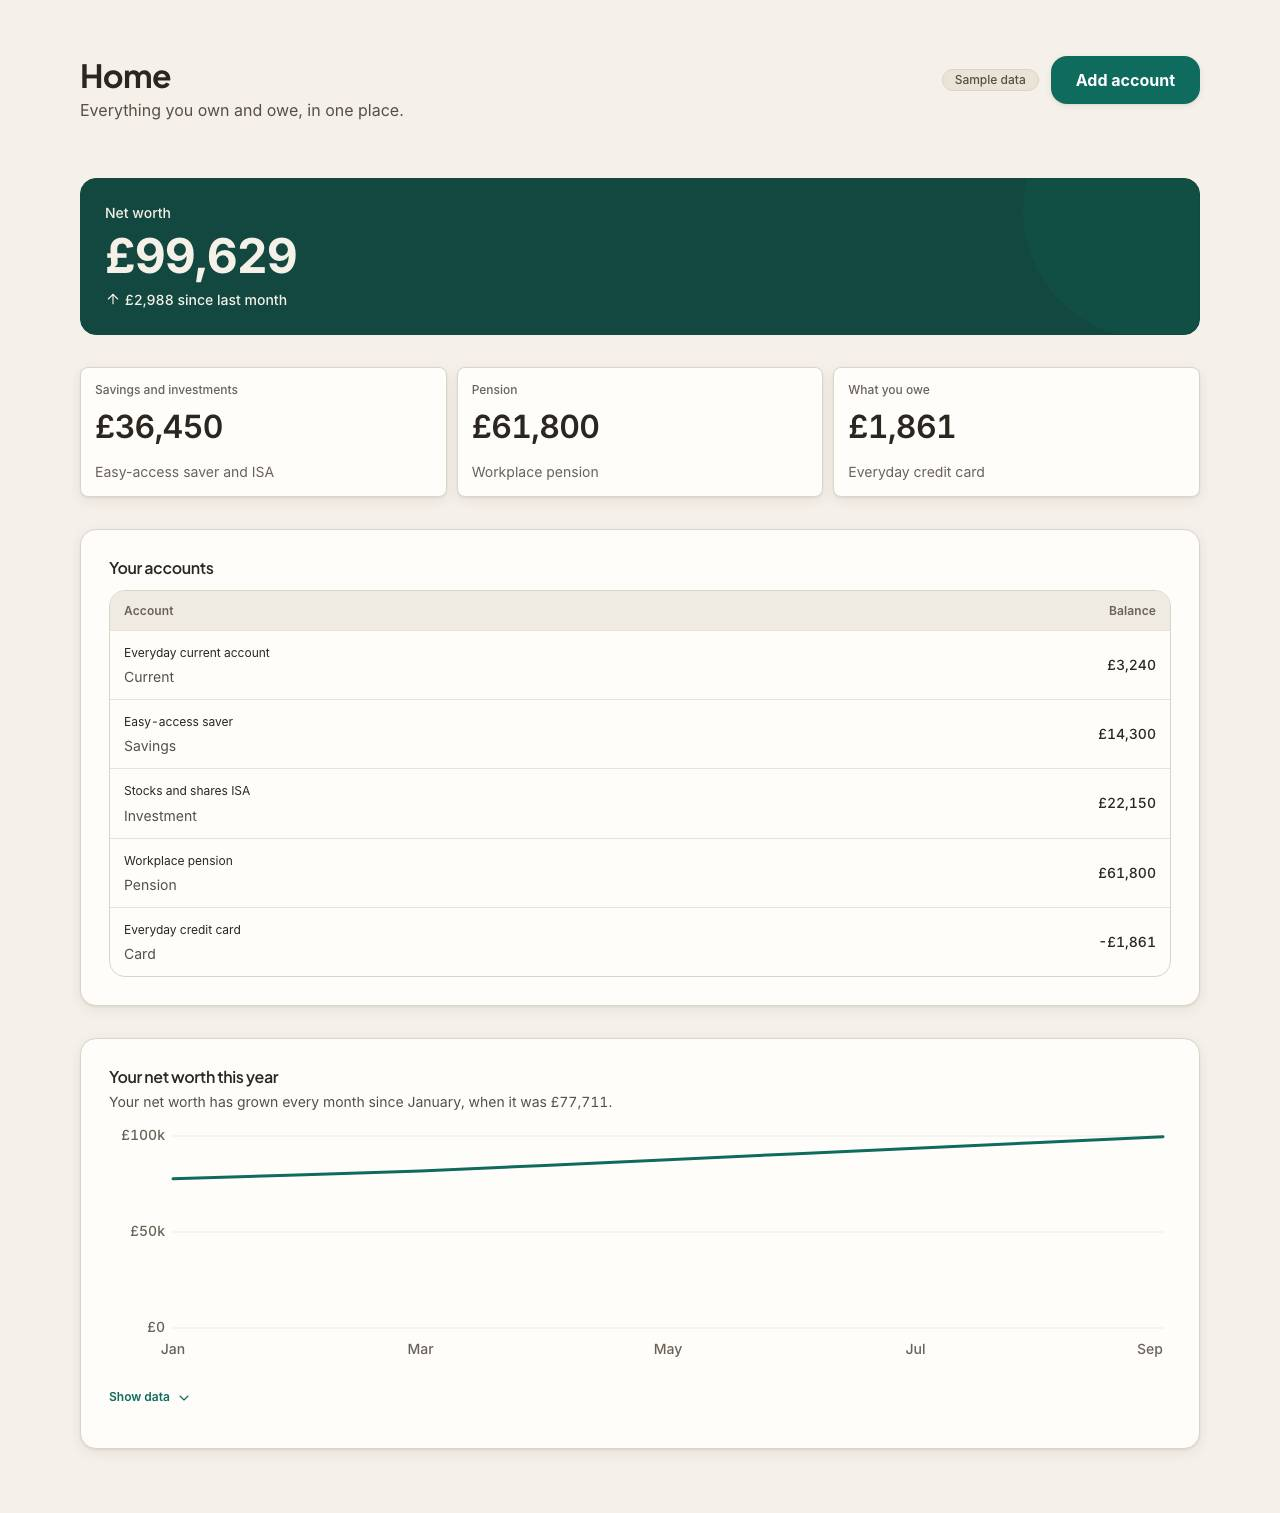
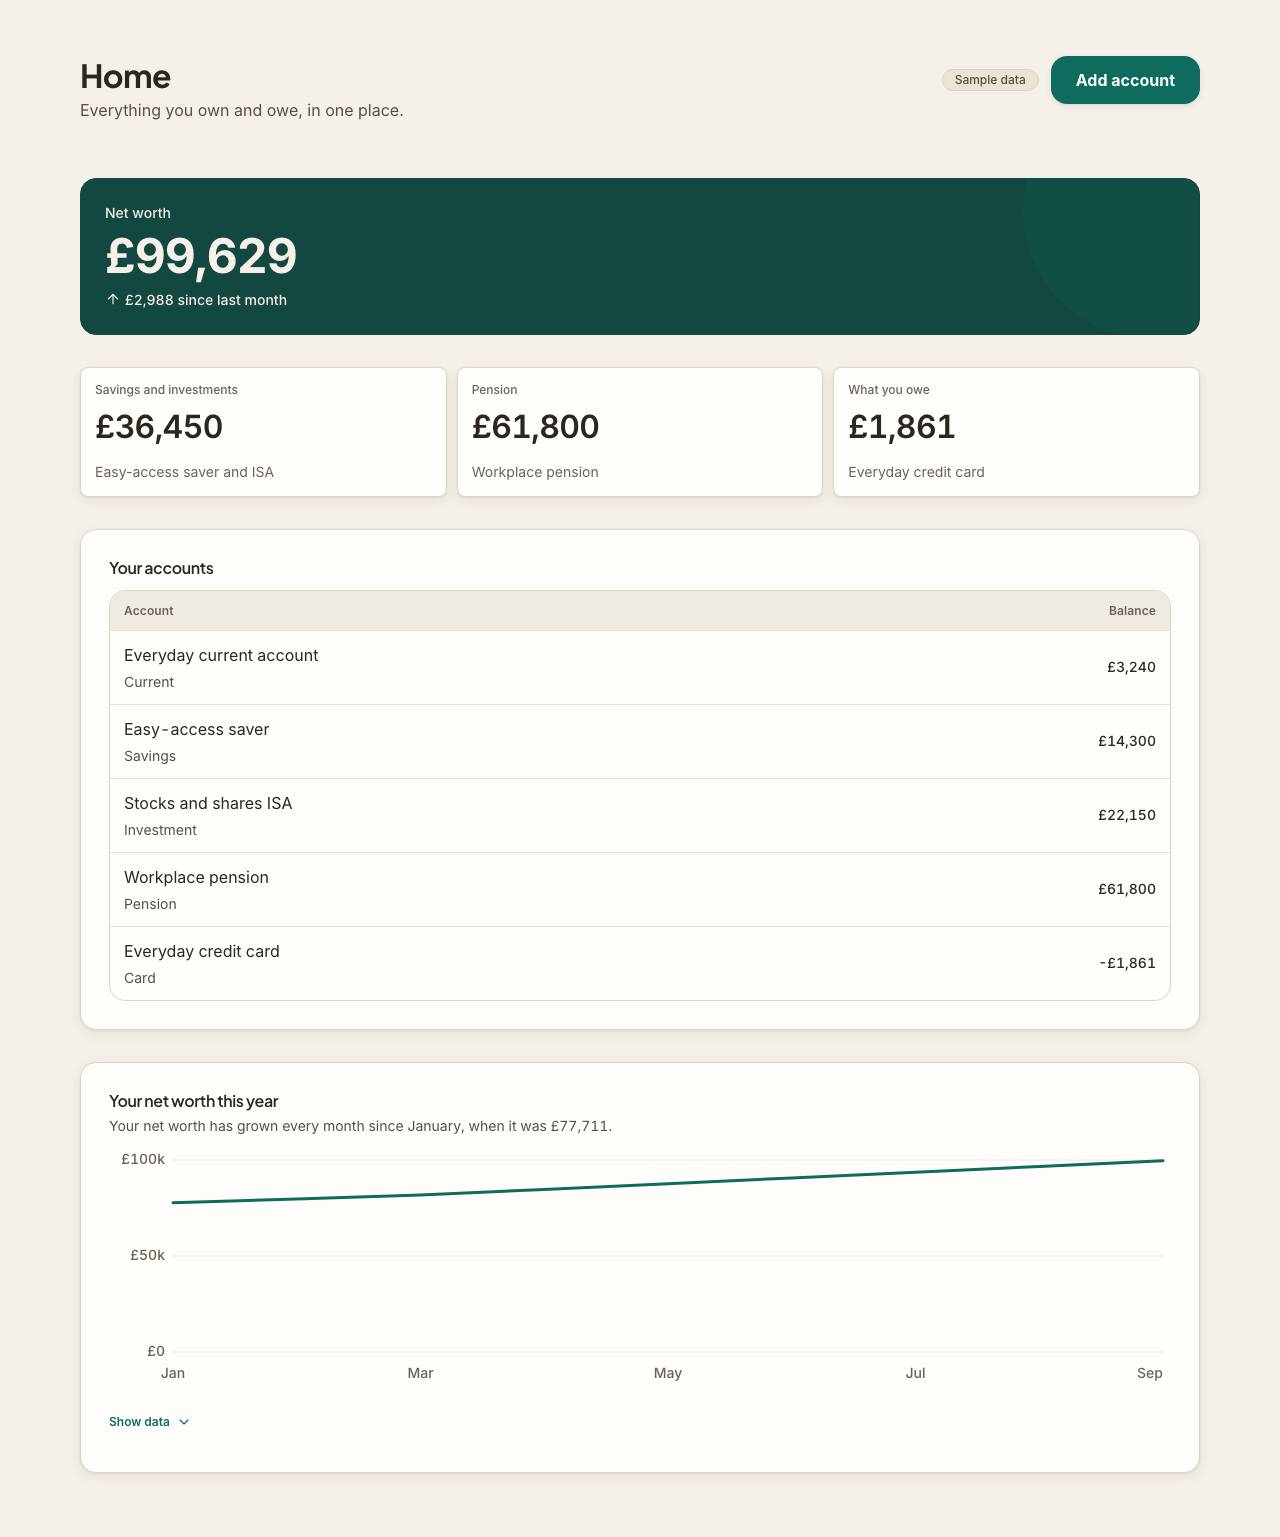
fix(ui): template card titles use the heading textStyle; final after screenshots

diff --git a/packages/ui/src/templates/PageTemplates/PageTemplates.styles.ts b/packages/ui/src/templates/PageTemplates/PageTemplates.styles.ts
@@ -22,9 +22,7 @@ export const splitDetail = css({ gridColumn: { lg: "span 8" } });
 
 export const cardTitle = css({
   margin: "0",
-  fontFamily: "display",
-  fontSize: "md",
-  fontWeight: "semibold",
+  textStyle: "heading.sm",
   color: "text.primary",
 });
 

diff --git a/docs/design/e16-polish/pr2/README.md b/docs/design/e16-polish/pr2/README.md
@@ -21,6 +21,6 @@ Story titles moved in this PR, so each pair compares the old and new story for t
 | Page rules (new)         | none                                  | `1. Foundations/Page rules`                                     | `pagerules-*-after` only     |
 | KpiCard, not set (new)   | none                                  | `2. Primitives/KpiCard` Not set                                 | `kpicardnotset-*-after` only |
 
-What changed: the tab control is now a single `Tabs` primitive with a lighter track and a clearer selected pill; the four-item variant is wider than a 375px viewport and clips at the right edge, where it is meant to scroll. `ScenarioZone` loses its heavy dashed outline and tinted fill for a faint border on a near-canvas surface, moves the "Illustration, not saved" badge to the top right, puts the reset button beside the next-step link, and replaces the blue boxed advice notice with a quiet line under a divider (`ProjectionNotice` follows the same quieter treatment). `KpiCard` now has an explicit "Not set" state. The dashboard and simulator templates are built from the new pieces: a `HeroFigure` net worth block above a three-card strip, collapsible data under the chart, and the page body inside the app shell. At 375px the dashboard KPI strip wraps to two cards and one, and the accounts table scrolls sideways so the Balance column is off screen.
+What changed: the tab control is now a single `Tabs` primitive with a lighter track and a clearer selected pill; the four-item variant is wider than a 375px viewport and scrolls sideways, with a fade at the edge to show there is more. `ScenarioZone` loses its heavy dashed outline and tinted fill for a faint dashed border with no fill, so it sits quieter than the solid "Your details" card, moves the "Illustration, not saved" badge to the top right, puts the reset button beside the next-step link, and replaces the blue boxed advice notice with a quiet line under a divider (`ProjectionNotice` follows the same quieter treatment). `KpiCard` now has an explicit "Not set" state. The dashboard and simulator templates are built from the new pieces: a `HeroFigure` net worth block above a three-card strip, collapsible data under the chart, and the page body inside the app shell. At 375px the dashboard KPI strip wraps to two cards and one, and the accounts table scrolls sideways so the Balance column is off screen.
 
 Not captured: stories in other groups that reuse these components (Debt, Pension and Budget pages), and the interactive states of Tabs.
